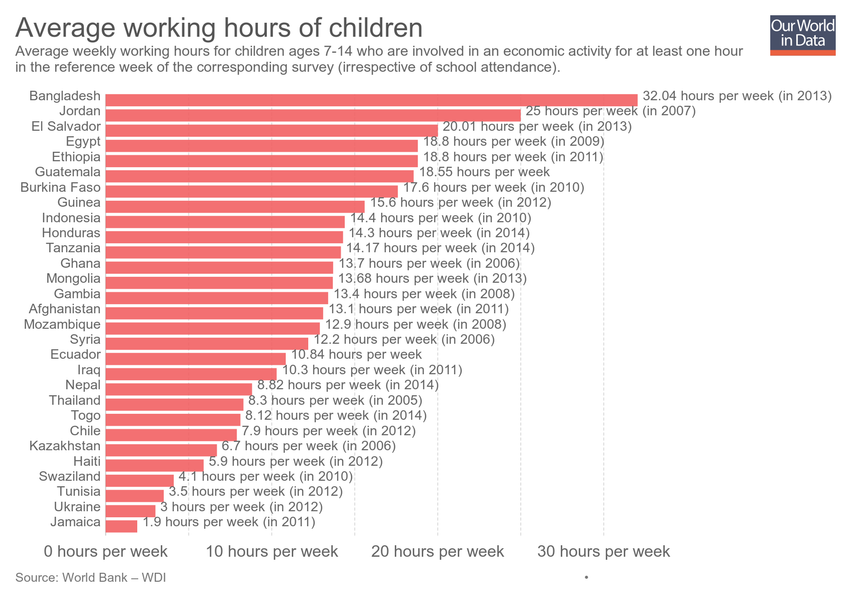
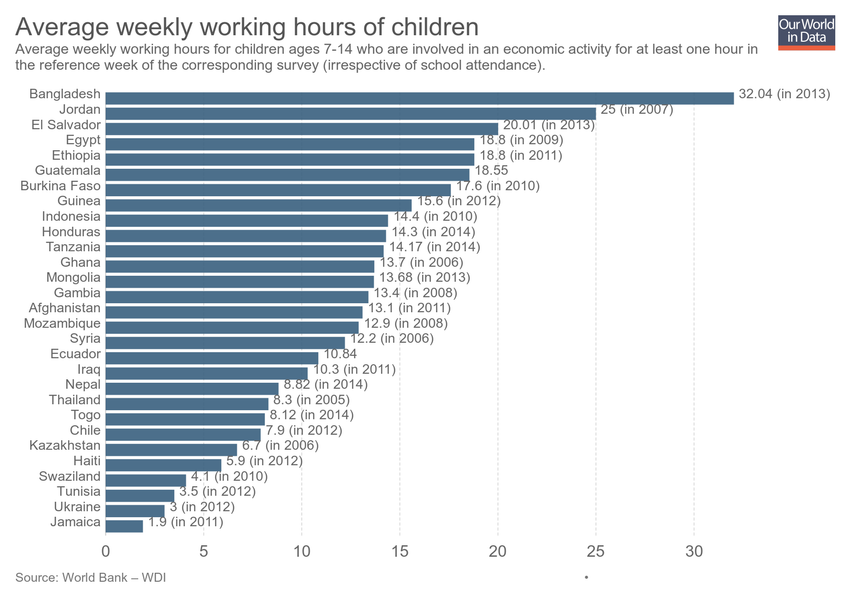
Updating chart average-working-hours-of-children

Changed region(s): [[0.0306, 0.15, 0.9788, 0.93], [0.0, 0.03, 1.0, 0.12], [0.4282, 0.9, 0.8259, 0.93]]

diff --git a/grapher/average-working-hours-of-children.html b/grapher/average-working-hours-of-children.html
@@ -1,4 +1,4 @@
-<!doctype html><html><head><meta name="viewport" content="width=device-width, initial-scale=1" /><title>Average working hours of children - Our World in Data</title><meta name="description" content="Average weekly working hours for children ages 7-14 who are involved in an economic activity for at least one hour in the reference week of the corresponding survey (irrespective of school attendance)." /><link rel="canonical" href="https://ourworldindata.org/grapher/average-working-hours-of-children" /><meta property="fb:app_id" content="1149943818390250" /><meta property="og:url" content="https://ourworldindata.org/grapher/average-working-hours-of-children" /><meta property="og:title" content="Average working hours of children" /><meta property="og:description" content="Average weekly working hours for children ages 7-14 who are involved in an economic activity for at least one hour in the reference week of the corresponding survey (irrespective of school attendance)." /><meta property="og:image" content="https://ourworldindata.org/grapher/exports/average-working-hours-of-children.png?v=1" /><meta property="og:image:width" content="850" /><meta property="og:image:height" content="600" /><meta property="og:site_name" content="Our World in Data" /><meta name="twitter:card" content="summary_large_image" /><meta name="twitter:site" content="@OurWorldInData" /><meta name="twitter:creator" content="@OurWorldInData" /><meta name="twitter:title" content="Average working hours of children" /><meta name="twitter:description" content="Average weekly working hours for children ages 7-14 who are involved in an economic activity for at least one hour in the reference week of the corresponding survey (irrespective of school attendance)." /><meta name="twitter:image" content="https://ourworldindata.org/grapher/exports/average-working-hours-of-children.png?v=1" /><style>
+<!doctype html><html><head><meta name="viewport" content="width=device-width, initial-scale=1" /><title>Average weekly working hours of children - Our World in Data</title><meta name="description" content="Average weekly working hours for children ages 7-14 who are involved in an economic activity for at least one hour in the reference week of the corresponding survey (irrespective of school attendance)." /><link rel="canonical" href="https://ourworldindata.org/grapher/average-working-hours-of-children" /><meta property="fb:app_id" content="1149943818390250" /><meta property="og:url" content="https://ourworldindata.org/grapher/average-working-hours-of-children" /><meta property="og:title" content="Average weekly working hours of children" /><meta property="og:description" content="Average weekly working hours for children ages 7-14 who are involved in an economic activity for at least one hour in the reference week of the corresponding survey (irrespective of school attendance)." /><meta property="og:image" content="https://ourworldindata.org/grapher/exports/average-working-hours-of-children.png?v=2" /><meta property="og:image:width" content="850" /><meta property="og:image:height" content="600" /><meta property="og:site_name" content="Our World in Data" /><meta name="twitter:card" content="summary_large_image" /><meta name="twitter:site" content="@OurWorldInData" /><meta name="twitter:creator" content="@OurWorldInData" /><meta name="twitter:title" content="Average weekly working hours of children" /><meta name="twitter:description" content="Average weekly working hours for children ages 7-14 who are involved in an economic activity for at least one hour in the reference week of the corresponding survey (irrespective of school attendance)." /><meta name="twitter:image" content="https://ourworldindata.org/grapher/exports/average-working-hours-of-children.png?v=2" /><style>
         html, body {
             height: 100%;
             margin: 0;
@@ -20,8 +20,8 @@
         }
     </style><noscript><style>
                     figure { display: none !important; }
-                </style></noscript><link rel="stylesheet" href="https://ourworldindata.org/grapher/assets/commons.bundle.dcbbe53805c487d5e57617b10ac73a8a.css" /><link rel="preload" href="/grapher/data/variables/3115.json?v=1" as="fetch" crossorigin /></head><body class="singleChart"><figure data-grapher-src="/grapher/average-working-hours-of-children"></figure><noscript id="fallback"><img src="/grapher/exports/average-working-hours-of-children.svg" /><p>Interactive visualization requires JavaScript</p></noscript><script src="https://cdn.polyfill.io/v2/polyfill.min.js?features=es6,fetch"></script><script src="https://ourworldindata.org/grapher/assets/commons.bundle.4bbda1a4aa3b9e1fddc7.js"></script><script src="https://ourworldindata.org/grapher/assets/charts.bundle.4bbda1a4aa3b9e1fddc7.js"></script><script>
-        var jsonConfig = {"id":1205,"map":{"projection":"World","legendStepSize":20,"colorSchemeLabels":[],"colorSchemeValues":[],"defaultProjection":"World","colorSchemeMinValue":0,"customNumericColors":[],"customCategoryColors":{},"customCategoryLabels":{},"customHiddenCategories":{}},"tab":"chart","slug":"average-working-hours-of-children","type":"DiscreteBar","title":"Average working hours of children","xAxis":{"scaleType":"linear"},"yAxis":{"min":0,"scaleType":"linear"},"version":1,"subtitle":"Average weekly working hours for children ages 7-14 who are involved in an economic activity for at least one hour in the reference week of the corresponding survey (irrespective of school attendance).","hasMapTab":false,"originUrl":"https://ourworldindata.org/child-labor/","stackMode":"absolute","dimensions":[{"id":9206,"order":0,"chartId":1205,"display":{"shortUnit":"hours per week","tolerance":10},"property":"y","targetYear":null,"variableId":3115}],"isAutoSlug":true,"hasChartTab":true,"isPublished":true,"selectedData":[{"index":0,"entityId":172},{"index":0,"entityId":40},{"index":0,"entityId":67},{"index":0,"entityId":15},{"index":0,"entityId":201},{"index":0,"entityId":65},{"index":0,"entityId":259},{"index":0,"entityId":158},{"index":0,"entityId":151},{"index":0,"entityId":150},{"index":0,"entityId":148},{"index":0,"entityId":147},{"index":0,"entityId":145},{"index":0,"entityId":139},{"index":0,"entityId":136},{"index":0,"entityId":134},{"index":0,"entityId":132},{"index":0,"entityId":130},{"index":0,"entityId":131},{"index":0,"entityId":78},{"index":0,"entityId":77},{"index":0,"entityId":64},{"index":0,"entityId":75},{"index":0,"entityId":74},{"index":0,"entityId":71},{"index":0,"entityId":108},{"index":0,"entityId":109},{"index":0,"entityId":107},{"index":0,"entityId":112},{"index":0,"entityId":28}],"internalNotes":"","addCountryMode":"add-country","hideTitleAnnotation":true};
+                </style></noscript><link rel="stylesheet" href="https://ourworldindata.org/grapher/assets/commons.bundle.dcbbe53805c487d5e57617b10ac73a8a.css" /><link rel="preload" href="/grapher/data/variables/3115.json?v=2" as="fetch" crossorigin /></head><body class="singleChart"><figure data-grapher-src="/grapher/average-working-hours-of-children"></figure><noscript id="fallback"><img src="/grapher/exports/average-working-hours-of-children.svg" /><p>Interactive visualization requires JavaScript</p></noscript><script src="https://cdn.polyfill.io/v2/polyfill.min.js?features=es6,fetch"></script><script src="https://ourworldindata.org/grapher/assets/commons.bundle.4bbda1a4aa3b9e1fddc7.js"></script><script src="https://ourworldindata.org/grapher/assets/charts.bundle.4bbda1a4aa3b9e1fddc7.js"></script><script>
+        var jsonConfig = {"id":1205,"map":{"projection":"World","colorSchemeLabels":[],"colorSchemeValues":[],"colorSchemeMinValue":0,"customNumericColors":[],"customCategoryColors":{},"customCategoryLabels":{},"customHiddenCategories":{}},"tab":"chart","slug":"average-working-hours-of-children","type":"DiscreteBar","title":"Average weekly working hours of children","xAxis":{"scaleType":"linear"},"yAxis":{"min":0,"scaleType":"linear"},"version":2,"subtitle":"Average weekly working hours for children ages 7-14 who are involved in an economic activity for at least one hour in the reference week of the corresponding survey (irrespective of school attendance).","hasMapTab":false,"originUrl":"https://ourworldindata.org/child-labor/","stackMode":"absolute","dimensions":[{"display":{"shortUnit":"","tolerance":10},"property":"y","variableId":3115}],"hasChartTab":true,"isPublished":true,"selectedData":[{"index":0,"entityId":172},{"index":0,"entityId":40},{"index":0,"entityId":67},{"index":0,"entityId":15},{"index":0,"entityId":201},{"index":0,"entityId":65},{"index":0,"entityId":259},{"index":0,"entityId":158},{"index":0,"entityId":151},{"index":0,"entityId":150},{"index":0,"entityId":148},{"index":0,"entityId":147},{"index":0,"entityId":145},{"index":0,"entityId":139},{"index":0,"entityId":136},{"index":0,"entityId":134},{"index":0,"entityId":132},{"index":0,"entityId":130},{"index":0,"entityId":131},{"index":0,"entityId":78},{"index":0,"entityId":77},{"index":0,"entityId":64},{"index":0,"entityId":75},{"index":0,"entityId":74},{"index":0,"entityId":71},{"index":0,"entityId":108},{"index":0,"entityId":109},{"index":0,"entityId":107},{"index":0,"entityId":112},{"index":0,"entityId":28}],"internalNotes":"","addCountryMode":"add-country","hideTitleAnnotation":true};
         var figure = document.getElementsByTagName("figure")[0];
         try {
             window.App = {};
